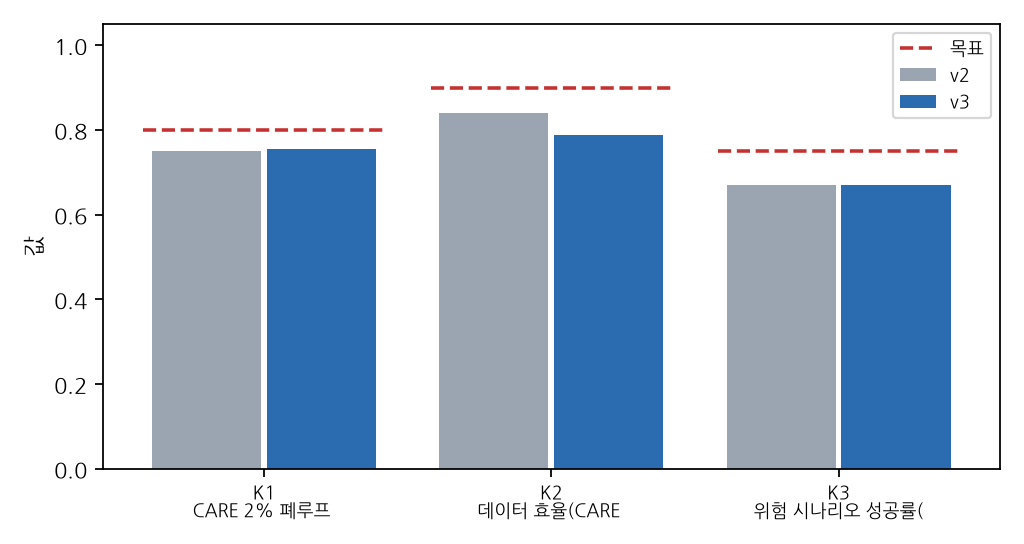
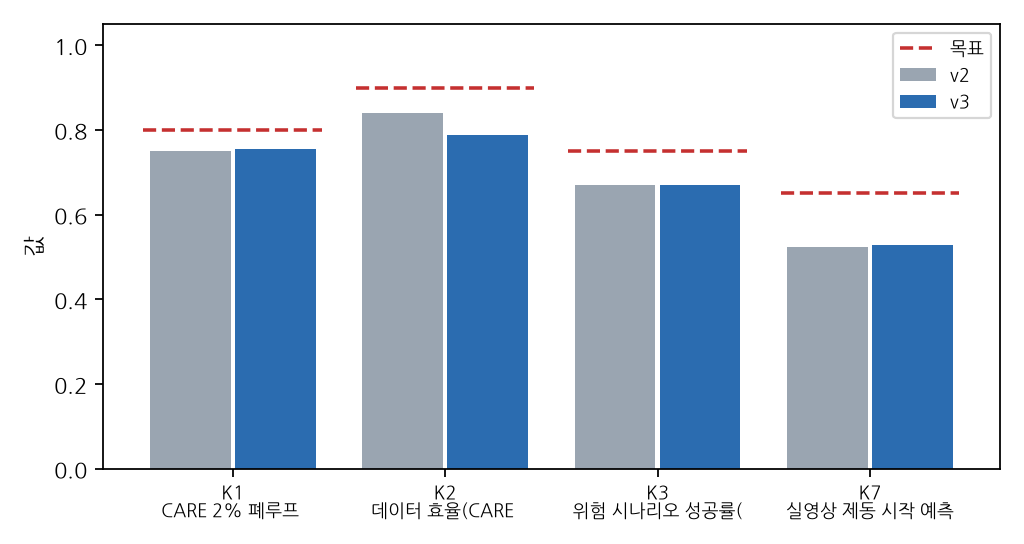
v3 최종 결과(K7 포함, K1~K7 미달) 기록, 실영상 진단과 v4 P5(자차 운동 이력) 후보 추가 근거
Claude-Session: https://claude.ai/code/session_01GSsf4FLGc433Q6A4YHmwfK

diff --git a/docs/36_v4_알고리즘_모델_개선계획.md b/docs/36_v4_알고리즘_모델_개선계획.md
@@ -34,6 +34,20 @@
 - 개루프 위험 프레임 MAE는 0.516으로 전체 평균 0.129의 4배다. 위험 프레임은 개루프 테스트 프레임의 4%(546/13500)다.
 - 이에 위험 프레임 학습 비중을 높이는 P4를 추가했다. 또 AMR은 주행과 실패 양상이 달라, v4 조합을 도메인별 개발 세트에서 따로 정한다(주행 160000번대, AMR 460000번대). T1은 언어 반사실 개발 세트가 주행에만 있어 AMR도 주행 결정을 따른다.
 
+### 2.0b P5 추가 근거(v3 실영상 결과, 2026-10-04 18:30)
+- 실영상 제동 시작 AUROC를 비교했다.
+
+| 예측 | AUROC |
+|---|---|
+| v3 전체 데이터 정책 | 0.528 |
+| CARE 점수기 | 0.518 |
+| 현재 자차 가속도(−a_t) 단독 | 0.802 |
+
+- 정책의 고유 감각 입력은 현재 속도 하나뿐이다.
+- **P5 자차 운동 이력**: 속도 이력 Hp=8, s=2를 [v_t, 차분…] 형태로 입력한다. 후보로 추가했고, 채택은 다른 후보와 같은 개발 세트 규칙으로 정한다.
+- 폐루프 관성 추종(copycat) 위험이 있으므로 개발 세트에서 판단한다.
+- 실영상 보고에는 −a_t 기준선을 함께 둔다. K7을 넘더라도 그것이 영상 덕분이라고 해석하지 않기 위해서다.
+
 ### 2.1 개발 실험 전 수정(2026-10-04, A15 측정)
 - **S1 기각.** v3 CARE 2%의 점수 몫 36클립은 이미 서로 다른 36개 에피소드에서 나왔다(시드 0·1·2 모두). 그래서 c=1이 CARE 선택을 바꾸지 않는다. 바뀌는 것은 트리거 혼합뿐이고(31 → 36 에피소드, 점수 몫 위험 비중 0.64 → 0.58), 이는 비교 기준선만 바꾼다. 1절의 K4 진단은 잘못 읽은 수치에 근거했다. "CARE 0.146 / 트리거 0.131"은 점수 몫이 아니라 전체 선택의 위험 비중이었고, 점수 몫만 보면 CARE 위험 비중은 약 0.80이다. 따라서 S1은 개발 비교에서 뺐다. K4에 대한 별도 개선은 이번 v4에 없으며, P3이 위험 클립 학습을 강화하는 간접 효과만 기대한다.
 - **특징 프리롤.** 학습 데이터는 클립 단위이고, 특징 이력(H=8, s=2)이 클립 시작에서 잘리면 폐루프(에피소드 시작에서 자름)와 클립 앞 14프레임이 달라진다. 특징은 프레임당 32 float라 저장 비용이 영상에 비해 무시할 만하다(클립당 14×32×4 B ≈ 1.8 KB). 그래서 큐레이션 내보내기에서 클립 앞 (H−1)·s 프레임의 특징을 함께 저장한다고 두고, 학습 때 특징 이력은 에피소드 시작에서 자른다(`PolicyData.feature_group`). 영상·행동은 그대로 클립 안에서만 쓴다.

diff --git a/docs/33_v3_핵심지표_벤치마크_개선계획.md b/docs/33_v3_핵심지표_벤치마크_개선계획.md
@@ -66,7 +66,7 @@
 - [x] v3 스위트·KPI 보고서(`vla_v3_suite.py`, `comma_v3.py`, `vla_v3_report.py`, 축소 스모크 통과)
 - [x] 파일럿·튜닝(검증)
 - [x] 사전 등록 커밋(docs/34, 파일럿·튜닝·테스트 실행 전)
-- [ ] 본 실험(주행·언어·AMR·실영상)
+- [x] 본 실험(주행·언어·AMR·실영상, 2026-10-04 18:28 완료)
 - [ ] KPI 결과 반영 원고 재구성·심사
 
 ## 7. 실행 기록
@@ -79,3 +79,6 @@
 - 주행 본 실험 완료(15:46, 75작업). 중간 집계: K1 0.754(미달), K2 0.788(미달), K3 0.669(미달), K4 +0.046 [95% CI −0.003, +0.093], Holm p 0.066(미달). 보조 가설 H-a(CARE − 무작위 공유 저장소, 2%)는 +0.062 [+0.018, +0.106], Holm p 0.011. 언어·AMR·실영상 단계는 진행 중이다.
 - 언어 단계 완료(16:30, 20작업, 반사실 63에피소드). K6(CARE 2%): 언어를 넣으면 속도 추종 오차가 2.29 → 3.11 m/s로 오히려 늘었다(감소율 −35.8%, 미달). 전체 데이터(보조)에서는 1.95 → 1.03 m/s로 47.4% 줄었다. 신중−민첩 추종 간격 차이는 언어를 넣으면 CARE 0.49 → 1.08 s, 전체 데이터 0.35 → 1.39 s로 커졌다(전문가 1.52 s).
 - AMR 단계 완료(17:31). AMR 튜닝(검증, 시드 0)에서는 λ=0, ρ=0.95를 골랐다. K5: CARE 2% − 무작위(공유 저장소) = −0.069 [95% CI −0.181, +0.033]로 미달이다(CARE 0.322, 무작위 0.392, 트리거 혼합 0.350, 전체 0.444, 전문가 0.958). 원인 진단과 v4 개선은 docs/36에 정리했다.
+- 실영상 단계 완료(18:28, 100작업). K7: 전체 데이터(특징 토큰) 제동 시작 AUROC 0.528 ± 0.150으로 미달이다(특징 없음 0.523). 10·20% 방법 간 차이도 0.51~0.58 범위였다.
+  - 진단: CARE 실영상 점수기의 제동 시작 AUROC는 0.518(fold별 0.41~0.64)로 우연 수준이다. 반면 현재 자차 가속도(−a_t) 하나만으로는 0.802다. 정책 입력에 속도 이력이 없는 것이 원인 중 하나로 보인다. 이에 v4에 자차 운동 이력 블록(P5)을 후보로 넣었다(docs/36).
+- **v3 최종: K1~K7 모두 미달.** 표는 `experiments/exp_120_vla_v3/summary/tables/v3_kpi.md`에 있다.

diff --git a/experiments/exp_120_vla_v3/summary/tables/v3_comma.md b/experiments/exp_120_vla_v3/summary/tables/v3_comma.md
@@ -1,0 +1,12 @@
+| 방법 | 예산 | 특징 토큰 | 실행 | 제동 시작 AUROC | MAE | 제동 MAE |
+|---|---|---|---|---|---|---|
+| action_trigger | 10% | O | 10 | 0.581 ± 0.091 | 1.050 | 0.441 |
+| action_trigger | 20% | O | 10 | 0.580 ± 0.074 | 0.833 | 0.399 |
+| care | 10% | O | 10 | 0.513 ± 0.102 | 0.558 | 0.879 |
+| care | 20% | O | 10 | 0.570 ± 0.074 | 0.558 | 0.850 |
+| full | 100% | X | 10 | 0.523 ± 0.102 | 0.602 | 0.884 |
+| full | 100% | O | 10 | 0.528 ± 0.150 | 0.531 | 0.801 |
+| mix_trigger | 10% | O | 10 | 0.540 ± 0.098 | 0.597 | 0.729 |
+| mix_trigger | 20% | O | 10 | 0.560 ± 0.120 | 0.603 | 0.742 |
+| random_shared | 10% | O | 10 | 0.508 ± 0.088 | 0.565 | 0.855 |
+| random_shared | 20% | O | 10 | 0.564 ± 0.076 | 0.564 | 0.772 |

diff --git a/experiments/exp_120_vla_v3/summary/tables/v3_kpi.md b/experiments/exp_120_vla_v3/summary/tables/v3_kpi.md
@@ -6,4 +6,4 @@
 | K4 | 점수기 고유 기여(CARE − 트리거 혼합) | CI 하한 > 0 | +0.066 [−0.010, +0.140] | +0.046 [−0.003, +0.093] | 미달 |
 | K5 | AMR CARE − 무작위(공유 저장소) | CI 하한 > −0.03 | −0.032 [−0.194, +0.125] | −0.069 [−0.181, +0.033] | 미달 |
 | K6 | 언어가 줄이는 속도 추종 오차(반사실) | >= 30% | 측정 불가(누출) | -35.8% (오차 2.29→3.11 m/s) | 미달 |
-| K7 | 실영상 제동 시작 예측 AUROC(전체 데이터) | >= 0.65 | 0.523 | - | 미측정 |
+| K7 | 실영상 제동 시작 예측 AUROC(전체 데이터) | >= 0.65 | 0.523 | 0.528 ± 0.150 | 미달 |
